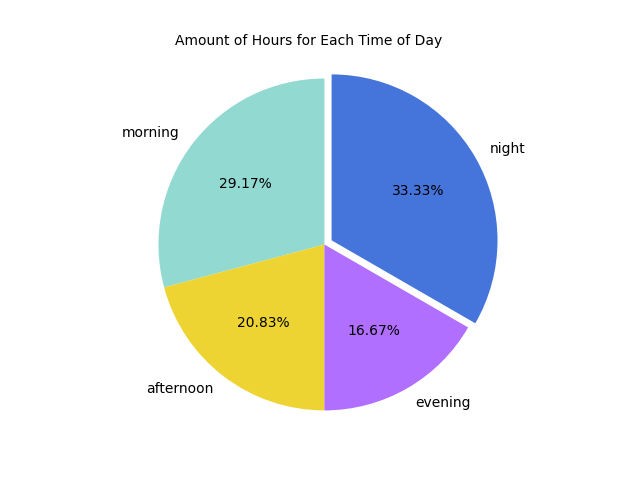
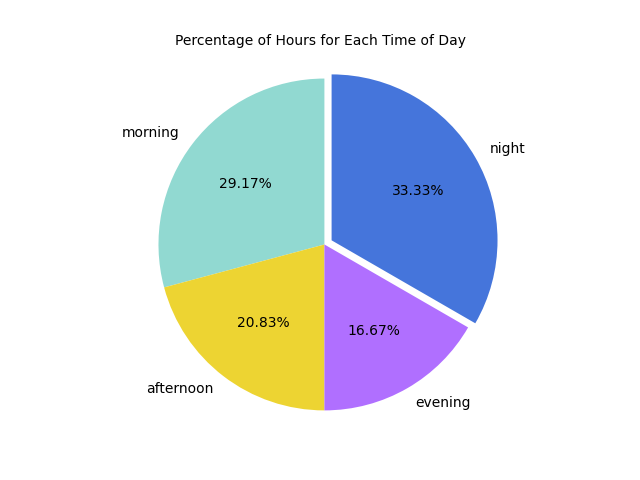
python week 2 homework (fixed the chart title)

Changed region(s): [[0.25, 0.0625, 0.7188, 0.0938]]

diff --git a/162 Week 2.py b/162 Week 2.py
@@ -8,5 +8,5 @@ explodelist = [0.0, 0.0, 0.0, 0.05]
 plot.pie(numlist, labels=namelist, autopct='%.2f%%', colors=colorlist,
 									explode=explodelist, startangle=90)
 plot.axis('equal')
-plot.text(-0.9,1.2,"Amount of Hours for Each Time of Day")
+plot.text(-0.9,1.2,"Percentage of Hours for Each Time of Day")
 plot.savefig('piechart.png')
